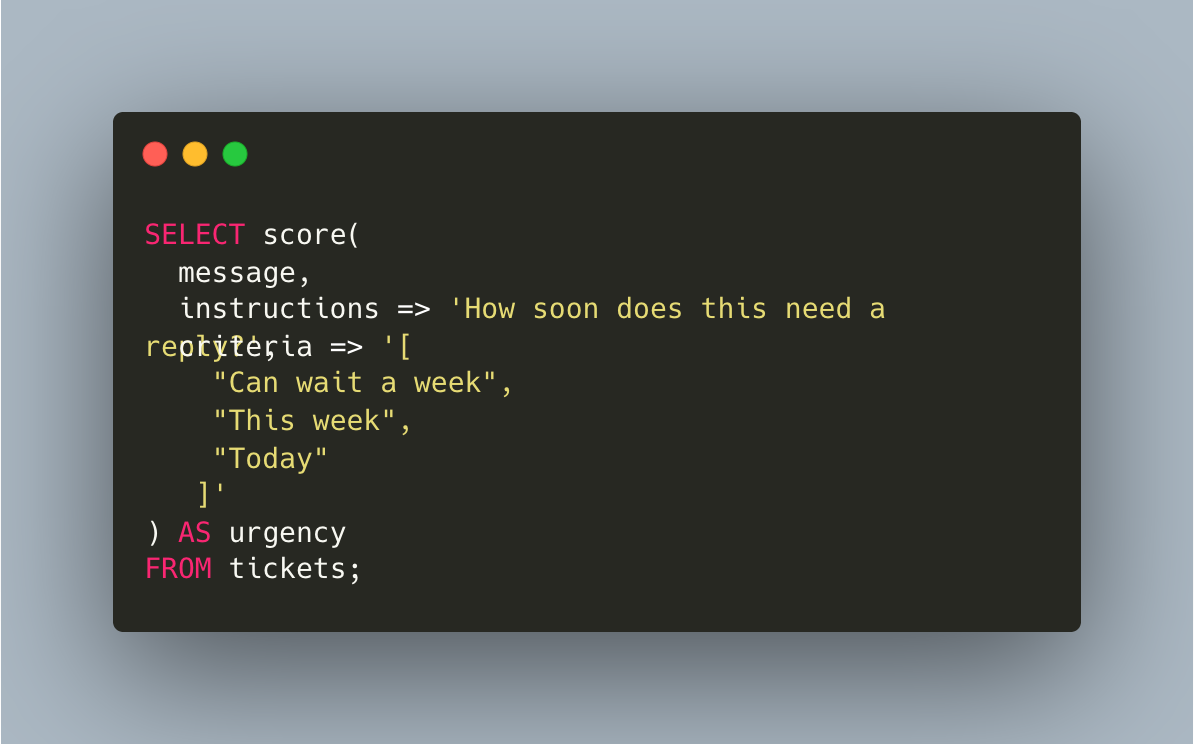
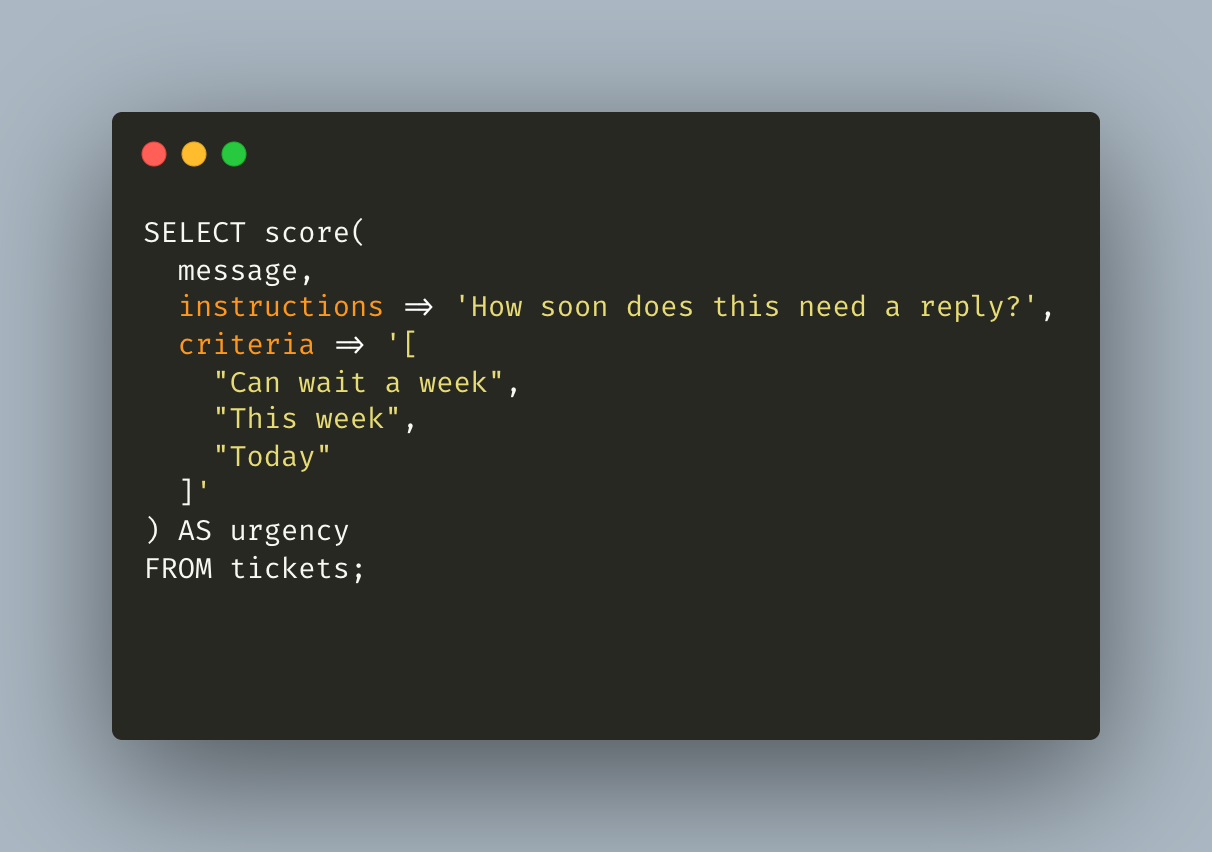
Replace the wrapped score shot and show simulated answers.
The score image is a wider Carbon export, and each function now has a result table instead of a second SQL block.

Changed region(s): [[0.093, 0.1237, 0.9296, 0.7728], [0.093, 0.8347, 0.9296, 0.8965]]

diff --git a/README.md b/README.md
@@ -10,13 +10,9 @@ Yes or no. One float from 0 to 1. A value near 0.5 means the call is ambiguous.
 
 ![noul](docs/images/noul.png)
 
-```sql
-SELECT noul(
-  message,
-  instructions => 'Is the customer asking for money back?'
-) AS p_refund
-FROM tickets;
-```
+| p_refund |
+| --- |
+| 0.99 |
 
 ## choice
 
@@ -24,14 +20,9 @@ Pick one label and keep the full distribution. The result is a struct: `label`, 
 
 ![choice](docs/images/choice.png)
 
-```sql
-SELECT choice(
-  message,
-  instructions => 'Which queue should handle this?',
-  criteria => '{"billing":"Charges, invoices, refunds","technical":"Bugs and outages","other":"Anything else"}'
-) AS queue
-FROM tickets;
-```
+| label | confidence | probabilities |
+| --- | --- | --- |
+| billing | 0.97 | billing 0.97, technical 0.02, other 0.01 |
 
 ## score
 
@@ -39,14 +30,9 @@ Place the row on an ordered rubric. The score is the expected position on that l
 
 ![score](docs/images/score.png)
 
-```sql
-SELECT score(
-  message,
-  instructions => 'How soon does this need a reply?',
-  criteria => '["Can wait a week","This week","Today"]'
-) AS urgency
-FROM tickets;
-```
+| score | confidence | probabilities |
+| --- | --- | --- |
+| 1.86 | 0.84 | 0: 0.04, 1: 0.18, 2: 0.78 |
 
 ## ask
 
@@ -54,28 +40,11 @@ Several questions about the same row, in one request. The result is the server's
 
 ![ask](docs/images/ask.png)
 
-```sql
-SELECT ask(
-  message,
-  questions => '{
-    "refund": {
-      "type": "noul",
-      "instructions": "Is the customer asking for money back?"
-    },
-    "queue": {
-      "type": "choice",
-      "instructions": "Which queue should handle this?",
-      "criteria": {
-        "billing": "Charges and refunds",
-        "other": "Anything else"
-      }
-    }
-  }'
-) AS raw
-FROM tickets;
-```
+| refund | queue | queue confidence |
+| --- | --- | --- |
+| 0.99 | billing | 0.96 |
 
-The examples above assume a `tickets.message` column, such as `I was charged twice for my annual plan this morning. Please refund one of the charges today.`
+The tables are simulated answers for one row whose `message` is `I was charged twice for my annual plan this morning. Please refund one of the charges today.` They are not a live model call.
 
 Leave `model` off to use the server default. Pass `model => 'jev-1.13.0'` or `model => 'typesafe/jev-1.13'` when the call should be pinned. `SET jev.on_error = 'null'` turns a bad row into NULL. `fail` stops the query. A missing API key still fails while planning.
 
